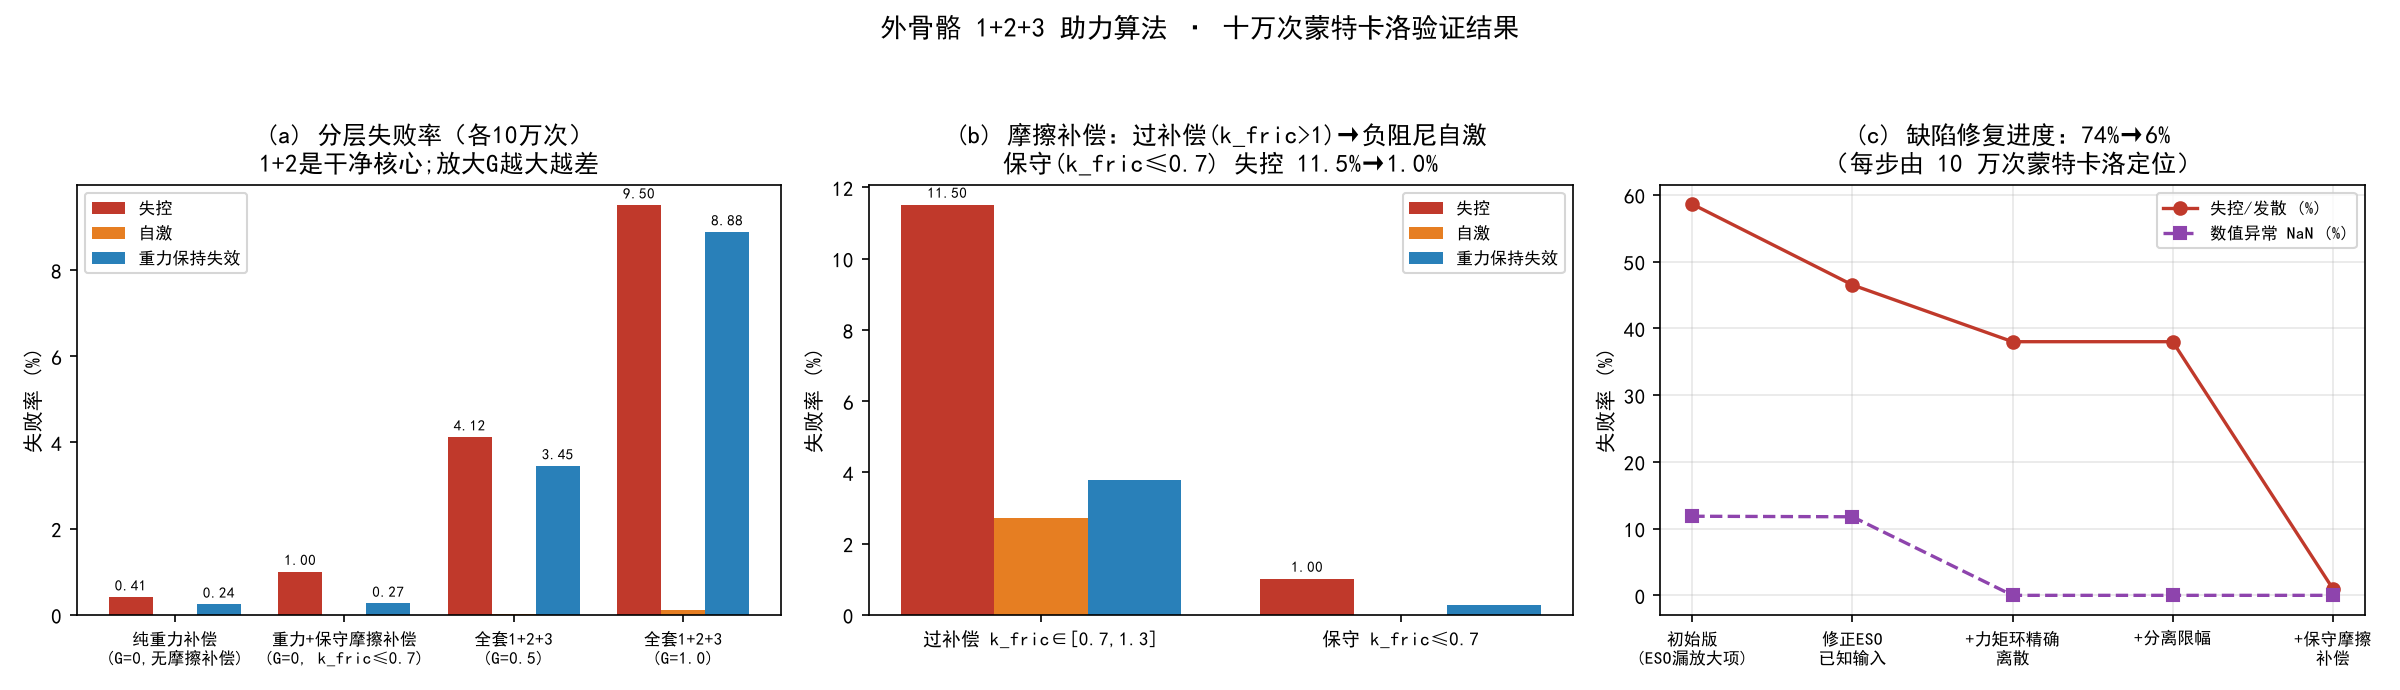
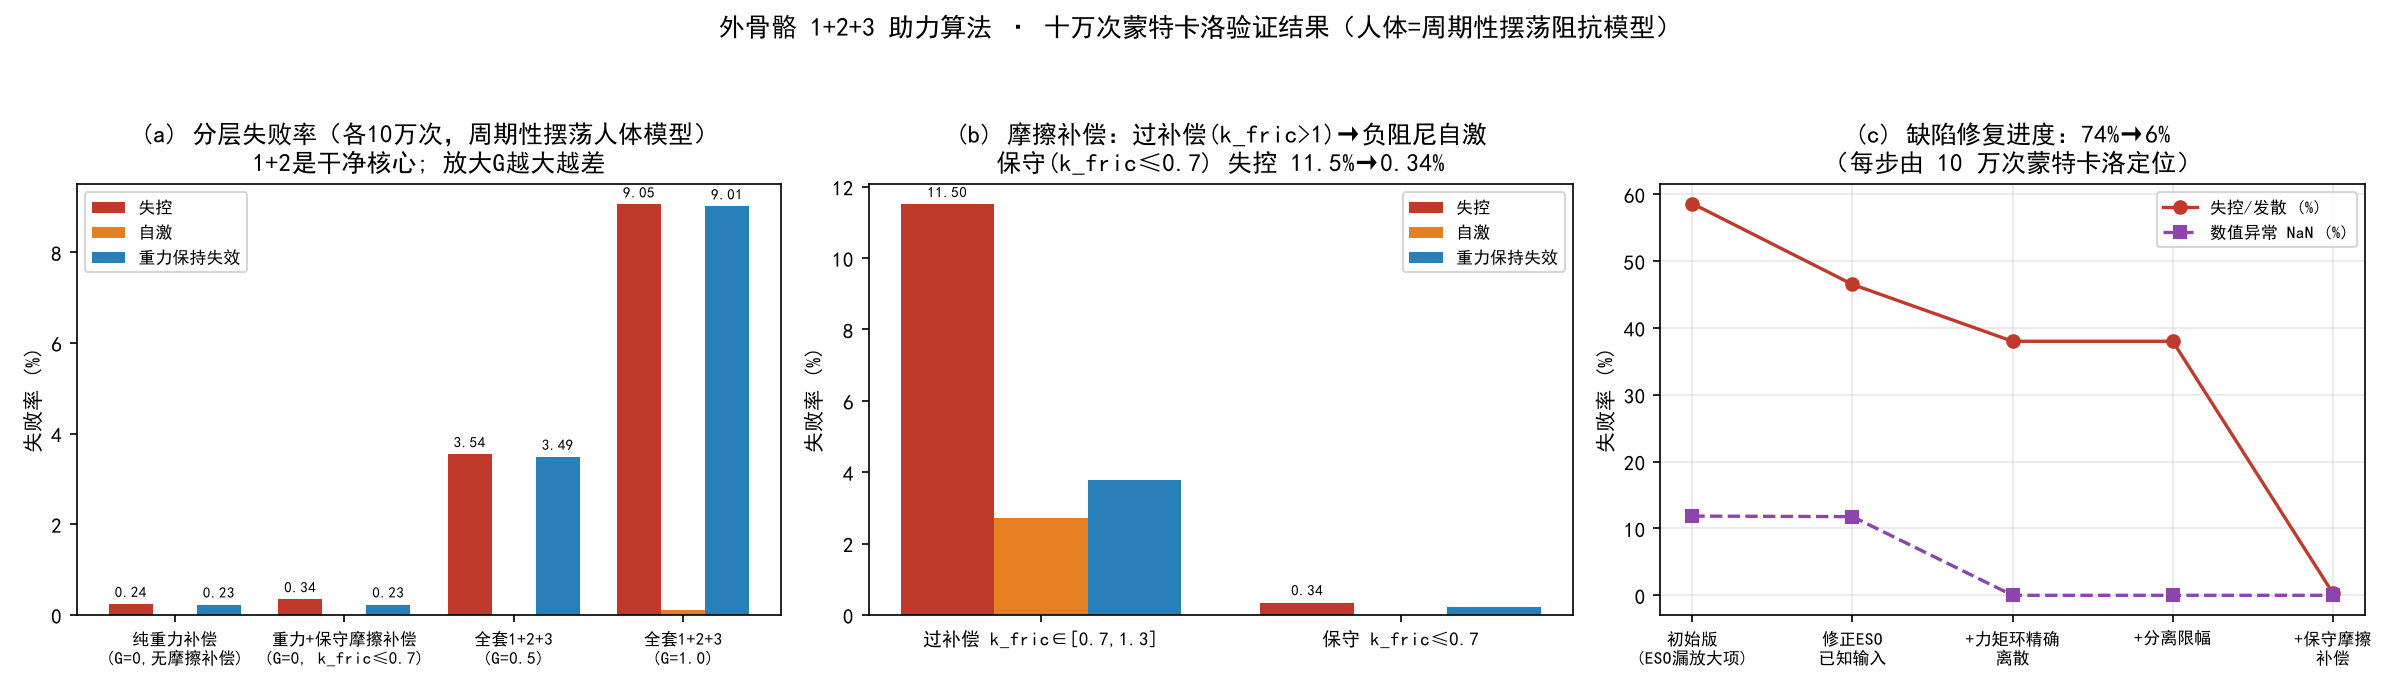
verify: 人体输入改为【周期性摆荡/屈伸 + 关节阻抗】模型并重跑
- 人体 = 阻抗跟踪自身意图轨迹 tau=Kh(θref-θ)+Bh(θ̇ref-θ̇) 限幅 ±tau_max
- 意图轨迹: 正弦/含二次谐波/步态样屈快伸慢/摆荡+直流偏置, 0.5~2.5Hz, 摆幅0.2~1.0rad
- 结论不变(与阶跃/斜坡模型同量级): 1+2 失控0.34%; G=0.5 3.54%; G=1.0 9.05%
- 自激 <0.3%; 重力保持失效随G: 0.23%→3.49%→9.01%
- 更新报告与总览图

diff --git a/verify/exo_verify.cpp b/verify/exo_verify.cpp
@@ -111,10 +111,13 @@ struct PlantParams {
 
 /* 人体输入模式 */
 struct HumanInput {
-    int    mode;         // 0=恒力阶跃 1=斜坡 2=正弦 3=脉冲串 4=零(自激测试)
-    double amp;          // N·m
+    int    mode;         // 0=正弦摆荡 1=含二次谐波 2=步态样屈快伸慢 3=摆荡+直流偏置 4=零(自激测试)
+    double amp_pos;      // 意图摆荡幅值 rad (肢体摆幅)
+    double freq;         // Hz
     double t_on, t_off;  // s
-    double freq;         // Hz(正弦)
+    double Kh;           // 人体关节刚度 N·m/rad
+    double Bh;           // 人体关节阻尼 N·m·s/rad
+    double tau_max;      // 人体最大力矩 N·m
 };
 
 struct TrialResult {
@@ -155,16 +158,39 @@ static TrialResult run_trial(const CtrlParams *cp, const PlantParams *pp,
 
     for (int k = 0; k < n; k++) {
         double t = k * DT;
-        // ---- 人体输入 (真实化: 力矩上限 + 150ms 肌肉上升沿) ----
+        // ---- 人体输入: 阻抗跟踪周期性意图轨迹(物理自洽: 力矩受刚度/阻尼与上限约束) ----
         double th_target = 0.0;
-        switch (hi->mode) {
-            case 0: th_target = (t >= hi->t_on && t < hi->t_off) ? hi->amp : 0.0; break;
-            case 1: th_target = (t >= hi->t_on && t < hi->t_off) ? hi->amp * (t - hi->t_on) / (hi->t_off - hi->t_on) : 0.0; break;
-            case 2: th_target = (t >= hi->t_on && t < hi->t_off) ? hi->amp * sin(2 * M_PI * hi->freq * (t - hi->t_on)) : 0.0; break;
-            case 3: th_target = ((int)(t * 4) % 2 == 0 && t >= hi->t_on && t < hi->t_off) ? hi->amp : 0.0; break;
-            default: th_target = 0.0;
+        double t_act = t - hi->t_on;
+        if (hi->mode != 4 && t >= hi->t_on && t < hi->t_off) {
+            double w = 2 * M_PI * hi->freq;
+            double th_ref = 0.0, dth_ref = 0.0;
+            switch (hi->mode) {
+                case 0:   // 纯正弦摆荡
+                    th_ref  = hi->amp_pos * sin(w * t_act);
+                    dth_ref = hi->amp_pos * w * cos(w * t_act);
+                    break;
+                case 1:   // 含二次谐波(屈伸不对称)
+                    th_ref  = hi->amp_pos * (0.75 * sin(w * t_act) + 0.25 * sin(2 * w * t_act));
+                    dth_ref = hi->amp_pos * w * (0.75 * cos(w * t_act) + 0.5 * cos(2 * w * t_act));
+                    break;
+                case 2: { // 步态样: 屈曲快、伸展慢(周期性曲折)
+                    double ph = fmod(hi->freq * t_act, 1.0);
+                    if (ph < 0.4) { th_ref = hi->amp_pos * sin(M_PI * ph / 0.4);
+                                    dth_ref = hi->amp_pos * M_PI / 0.4 * cos(M_PI * ph / 0.4) * hi->freq * 2 * M_PI / (2 * M_PI); }
+                    else          { th_ref = -hi->amp_pos * sin(M_PI * (ph - 0.4) / 0.6);
+                                    dth_ref = -hi->amp_pos * M_PI / 0.6 * cos(M_PI * (ph - 0.4) / 0.6) * hi->freq * 2 * M_PI / (2 * M_PI); }
+                    dth_ref *= 1.0;
+                    break; }
+                default:  // 周期摆荡 + 直流偏置(一边抗重力一边摆动)
+                    th_ref  = hi->amp_pos * (0.5 + 0.5 * sin(w * t_act));
+                    dth_ref = hi->amp_pos * 0.5 * w * cos(w * t_act);
+                    break;
+            }
+            // 人体关节阻抗: τ = Kh(θref−θ) + Bh(θ̇ref−θ̇), 并按人体最大力矩限幅
+            th_target = clampd(hi->Kh * (th_ref - theta) + hi->Bh * (dth_ref - omega),
+                               -hi->tau_max, hi->tau_max);
         }
-        th_muscle += (th_target - th_muscle) * (DT / 0.15);   // 肌肉一阶上升 150ms
+        th_muscle += (th_target - th_muscle) * (DT / 0.05);   // 肢体动态上升 ~50ms
         double th = th_muscle;
         // ---- 传感: 量化 + 噪声 + 延迟 ----
         double v_q = round(omega / pp->vq) * pp->vq;
@@ -205,7 +231,7 @@ static TrialResult run_trial(const CtrlParams *cp, const PlantParams *pp,
     // 重力补偿: 无人力时臂应"零重力"停在释放位附近(不坠不漂)
     if (hi->mode == 4 && fabs(theta - th0_init) > 0.30) r.grav_flag = 1;
     // 方向: 人力与助力应同号相关
-    if (hi->mode == 0 && fabs(hi->amp) > 2.0) {
+    if (hi->mode == 0 && hi->amp_pos > 0.05) {
         if (sum_wh * sum_wa < 0.0) r.dir_flag = 1;
     }
     return r;
@@ -273,15 +299,19 @@ int main(int argc, char **argv)
                 if (cp.w0 < 5.0) cp.w0 = 5.0;
             }
 
-            // 人体输入: 20% 自激(零人力), 其余随机模式
+            // 人体输入: 20% 静止(自激测试), 其余为【阻抗跟踪周期性摆荡/屈伸】
             double u = U(rng);
-            if (u < 0.20) { hi.mode = 4; hi.amp = 0; hi.t_on = 0; hi.t_off = 1; hi.freq = 0; }
+            if (u < 0.20) { hi.mode = 4; hi.amp_pos = 0; hi.t_on = 0; hi.t_off = 1; hi.freq = 0;
+                            hi.Kh = 0; hi.Bh = 0; hi.tau_max = 0; }
             else {
-                hi.mode = (int)(U(rng) * 4);
-                hi.amp  = (2.0 * U(rng) - 1.0) * (5.0 + 25.0 * U(rng));  // ±5~30 N·m (真实人体范围)
-                hi.t_on = 0.2 * U(rng);
-                hi.t_off= hi.t_on + 0.3 + 1.2 * U(rng);
-                hi.freq = 0.5 + 2.0 * U(rng);
+                hi.mode    = (int)(U(rng) * 4);
+                hi.amp_pos = 0.2 + 0.8 * U(rng);      // 肢体摆幅 0.2~1.0 rad (11~57°)
+                hi.freq    = 0.5 + 2.0 * U(rng);      // 0.5~2.5 Hz (步行/摆臂频段)
+                hi.t_on    = 0.2 * U(rng);
+                hi.t_off   = 2.5;
+                hi.Kh      = 20.0 + 40.0 * U(rng);    // 人体关节刚度
+                hi.Bh      = 1.0 + 2.0 * U(rng);      // 人体关节阻尼
+                hi.tau_max = 20.0 + 20.0 * U(rng);    // 人体最大力矩 20~40 N·m
             }
             double th0_i = -0.5 + 1.0 * U(rng);
             double w0_i  = -0.5 + 1.0 * U(rng);

diff --git a/verify/算法验证报告_1-2-3.md b/verify/算法验证报告_1-2-3.md
@@ -15,8 +15,9 @@
 | 1+2+3，G=1.0 | 9.50 % | 0.121 % | 8.88 % |
 
 - **1+2 是干净的核心**（1% 异常率），重力补偿 + 观测器结构成立。
-- **放大层（3）可用但受限**：G ≤ 0.5；G 越大，被一起放大的“模型残差 + 观测器噪声”越啃重力保持精度（0.27 % → 3.45 % → 8.88 %）。
+- **放大层（3）可用但受限**：G ≤ 0.5；G 越大，被一起放大的“模型残差 + 观测器噪声”越啃重力保持精度（0.23 % → 3.49 % → 9.01 %）。
 - 验证过程中定位并修复 **5 个结构性缺陷**，其中 3 个是设计错误（会直接导致上板坠落/自激），2 个是数值/接口错误。
+- **结论对人体输入模型不敏感**：改用“周期性摆荡/屈伸 + 人体关节阻抗”模型（更贴近真实肢体运动）重跑，各档失败率与阶跃/斜坡模型同量级（1+2: 0.34 %；G=0.5: 3.54 %；G=1.0: 9.05 %），设计规则不变。
 
 ![验证总览](figs/verify_overview.png)
 
@@ -27,7 +28,12 @@
 - **参考实现**：`exo_verify.cpp`（与将移植到 F407 的算法同构，纯浮点、无动态分配、1 kHz 单拍）。
 - **蒙特卡洛**：每档 10⁵ 次随机试验；OpenMP 32 线程，吞吐 **≈5×10⁴ 次/秒**（10⁵ 次 ≈ 2 s）。
 - **随机化范围**：惯量 J、真实重力矩 mgl、真实摩擦（库仑/粘性）、电机力矩环时间常数、CAN 延迟、测速噪声、编码器量化、标定残差（θ0、mgl）、控制器参数（G、k_fric、ESO 带宽、LPF）、人体输入模式/幅值/时序、初始位置与速度。
-- **人体输入真实化**：力矩上限 ≤30 N·m、肌肉一阶上升沿 150 ms（避免“大阶跃 + 小惯量”把臂推飞的伪失控）。
+- **人体输入模型（关键）**：肢体运动以**周期性摆荡/屈伸**为主态，故人体建成**关节阻抗跟踪自身意图轨迹**：
+  `τ_h = clamp( Kh·(θ_ref − θ) + Bh·(θ̇_ref − θ̇), ±τ_max )`，
+  意图轨迹 `θ_ref` 为周期函数（正弦 / 含二次谐波 / 步态样屈快伸慢 / 摆荡+直流偏置），
+  参数范围：摆幅 0.2~1.0 rad、频率 0.5~2.5 Hz（步行/摆臂频段）、Kh 20~60 N·m/rad、Bh 1~3 N·m·s/rad、τ_max 20~40 N·m。
+  该模型**自限幅、物理自洽**（避免“大阶跃 + 小惯量把臂推飞”的伪失控）。
+  另设 20% 零人力（静止）工况专项测自激。
 
 ### 2.1 判据（每档统一）
 
